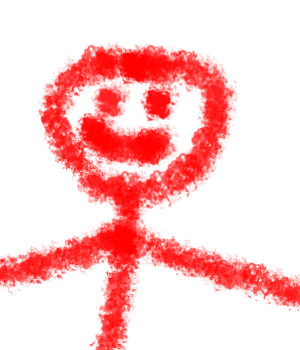
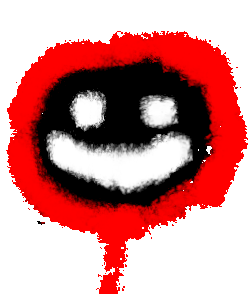
Testing new style for the Animatronics, making use of the new GIF mechanics.

diff --git a/src/main/java/es/cristichi/fnac/anim/RoamingMaria.java b/src/main/java/es/cristichi/fnac/anim/RoamingMaria.java
@@ -2,7 +2,6 @@ package es.cristichi.fnac.anim;
 
 import es.cristichi.fnac.exception.ResourceException;
 import es.cristichi.fnac.io.Resources;
-import es.cristichi.fnac.io.StaticNightDrawableImage;
 
 import java.awt.*;
 import java.awt.geom.Point2D;
@@ -31,7 +30,7 @@ public class RoamingMaria extends AvoidCamsAnimatronicDrawing {
     public RoamingMaria(String name, Map<Integer, Integer> aiDuringNight,boolean cameraStalled,
                         boolean globalCameraStalled, List<String> forbiddenCams, Random rng) throws ResourceException {
         super(name, 5, 6, aiDuringNight, cameraStalled,
-                globalCameraStalled, new StaticNightDrawableImage("anims/maria/camImg.png"),
+                globalCameraStalled, Resources.loadGif("anims/maria/cam.gif", true),
                 new Jumpscare(Resources.loadGif("anims/maria/jumpscare.gif", false), 0,
                         Resources.loadSound("anims/maria/sounds/jumpscare.wav"),
                         0, JumpscareVisualSetting.CENTER_BOTTOM),
